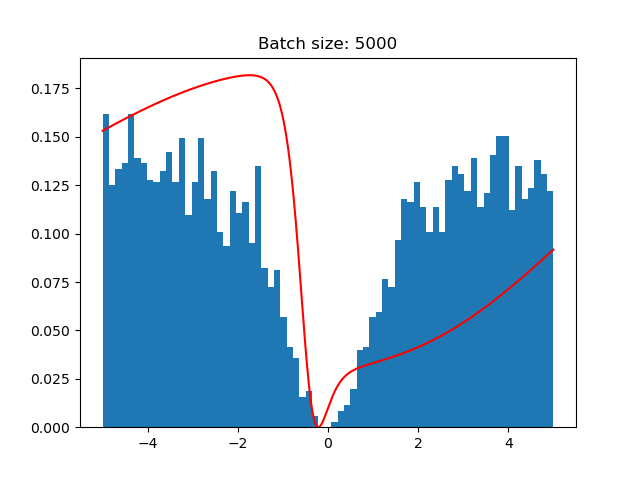
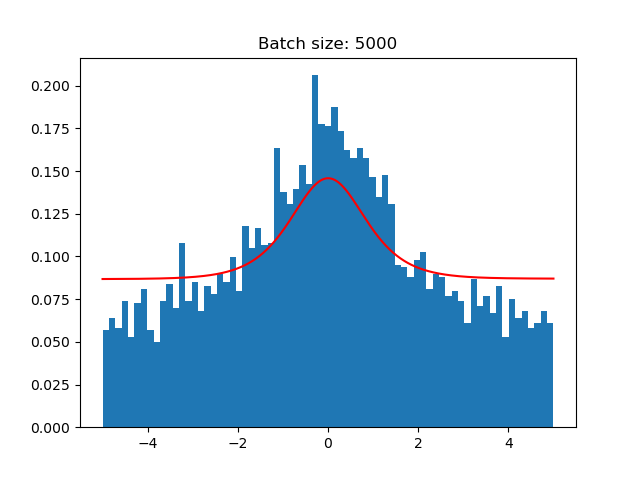
feat: update hyperparameters and refactor run_experiment to accept arguments

diff --git a/src/qvarnet/ho_sampler.py b/src/qvarnet/ho_sampler.py
@@ -27,6 +27,7 @@ except ImportError:
 class MLP(nn.Module):
     architecture: list
     hidden_activation: callable = nn.tanh
+    alpha: float = 1.0  # parameter for the final wavefunction
 
     @nn.compact
     def __call__(self, x):
@@ -34,6 +35,7 @@ class MLP(nn.Module):
             x = nn.Dense(features=self.architecture[i + 1])(x)
             if i < len(self.architecture) - 2:
                 x = self.hidden_activation(x)
+        x = jnp.exp(-0.5 * (x**2))
         return x
 
 
@@ -105,9 +107,9 @@ def loss_and_grads(params, batch, model_apply):
         params, batch, model_apply
     )
 
-    jax.debug.print(
-        "Energy sampled: {E}, Energy trapezoidal: {E_trap}", E=E, E_trap=E_trap
-    )
+    # jax.debug.print(
+    #     "Energy sampled: {E}, Energy trapezoidal: {E_trap}", E=E, E_trap=E_trap
+    # )
 
     # compute the modulus of the gradient for logging
     # grad_E_mod = jnp.sqrt(
@@ -131,7 +133,10 @@ def train_step(state, batch):
 @partial(jax.jit, static_argnums=(1,))
 def mh_kernel(rng_key, prob_fn, prob_params, position, prob, PBC=None):
     key1, key2 = random.split(rng_key)
-    proposal = position + random.normal(key1, shape=position.shape) * 0.5
+    # proposal = position + random.normal(key1, shape=position.shape) * 0.5
+    proposal = position + random.uniform(
+        key1, shape=position.shape, minval=-0.5, maxval=0.5
+    )
     # ensure PBC
     proposal = jax.lax.cond(
         PBC is None,
@@ -243,31 +248,30 @@ def train(
     return state.params, energy_history, wf_hist, best_params, best_energy
 
 
-def run_experiment():
+def run_experiment(args=None):
 
-    model = MLP(architecture=[1, 5, 1])
+    if args is None:
+        raise ValueError("Arguments must be provided to run_experiment")
+    
 
-    class StupidModel(nn.Module):
-        alpha: jnp.ndarray
-
-        @nn.compact
-        def __call__(self, x):
-            return jnp.exp(-self.alpha * x**2)
-
-    # model = StupidModel(alpha=jnp.array(1.0))
+    modelArguments = args.get_model_args
+    trainingArguments = args.get_training_args
+    samplerArguments = args.get_sampler_args
+    optimizerArguments = args.get_optimizer_args
+    model = MLP(architecture=modelArguments["architecture"])
 
     rng = jax.random.PRNGKey(0)
-    input_shape = (5_000, 1)  # Batch size of 5000, input dimension
+    input_shape = (trainingArguments["batch_size"], 1)  # Batch size of 5000, input dimension
     params = model.init(rng, jnp.ones(input_shape) * 0.1)  # Initialize parameters
     PBC = 10
     params_fin, energy, wf_hist, best_params, best_energy = train(
-        3,
+        trainingArguments["num_epochs"],
         params,
         input_shape,
         model.apply,
-        optax.adam(1e0),
+        optax.adam(learning_rate=optimizerArguments["learning_rate"]),
         PBC=PBC,
-        n_steps_sampler=1_000,
+        n_steps_sampler=samplerArguments["chain_length"],
     )
     import matplotlib.pyplot as plt
 

diff --git a/cli/run.py b/cli/run.py
@@ -40,4 +40,4 @@ if __name__ == "__main__":
     print(parser.get_training_args)
 
     from qvarnet.ho_sampler import run_experiment
-    run_experiment()
+    run_experiment(parser)
